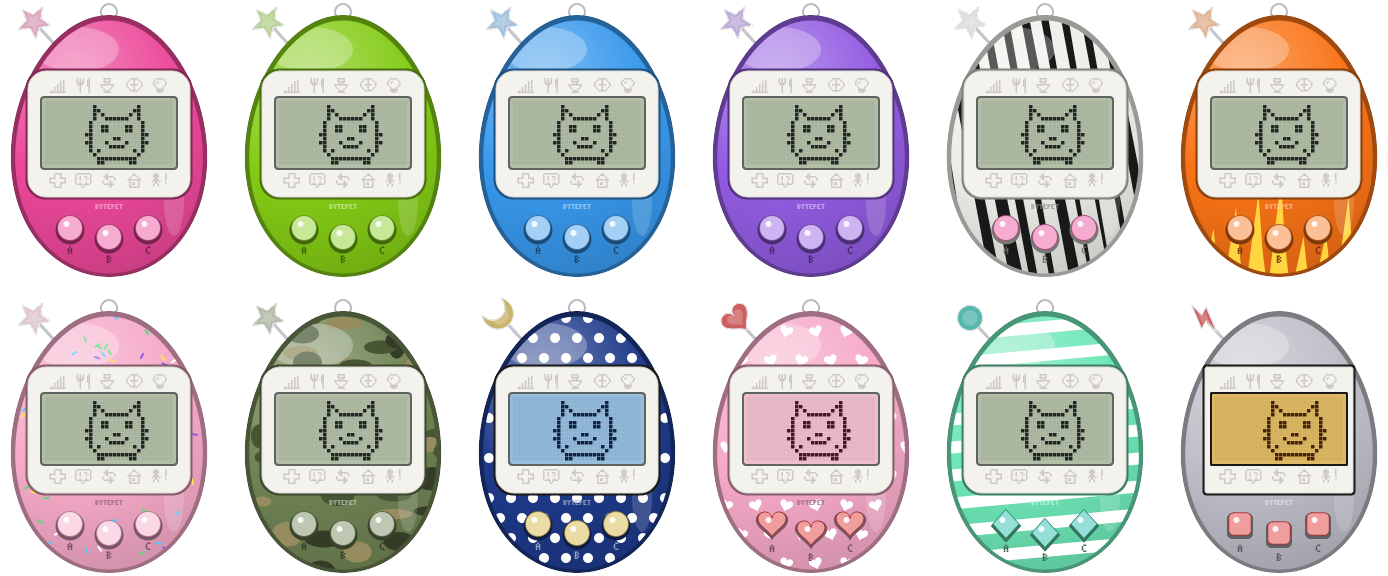
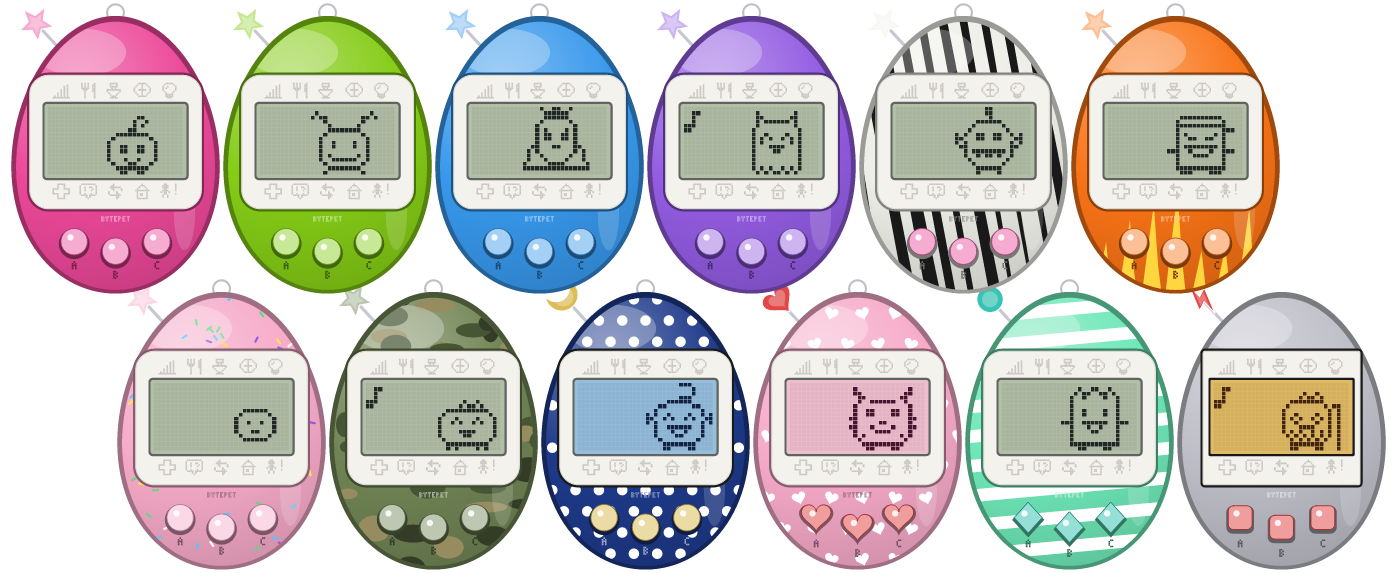
README: a different pet in each preset shell, in staggered rows
The "Make it yours" image showed the same pet in all twelve presets in a
plain grid. export_art now renders it: the presets in the caption's order,
each with its own pet from baby to senior (a few dancing), in two staggered
rows with the back row tucked slightly behind the front.

diff --git a/examples/export_art.rs b/examples/export_art.rs
@@ -140,6 +140,61 @@ fn hero(dir: &Path) {
     out.save_png(dir.join("hero.png")).unwrap();
 }
 
+/// The README's "Make it yours" image: all twelve preset shells in order, each with a
+/// different pet, in two staggered rows, the back one tucked slightly behind the front.
+fn shells(dir: &Path) {
+    use bytepet::look::PRESETS;
+    // BERRY LIME OCEAN GRAPE ZEBRA FLAME / DONUT CAMO COSMIC SWEET MINT RETRO
+    let pets = [
+        (Stage::Child, "child_a"),
+        (Stage::Teen, "teen_h"),
+        (Stage::Adult, "g_a"),
+        (Stage::Adult, "s_m"),
+        (Stage::Adult, "h_b"),
+        (Stage::Adult, "p_a"),
+        (Stage::Baby, "baby"),
+        (Stage::Child, "child_b"),
+        (Stage::Adult, "s_h"),
+        (Stage::Adult, "g_b"),
+        (Stage::Teen, "teen_p"),
+        (Stage::Senior, "senior"),
+    ];
+    let scale = 0.53;
+    let devices: Vec<tiny_skia::Pixmap> = PRESETS
+        .iter()
+        .zip(pets)
+        .enumerate()
+        .map(|(i, (p, (stage, character)))| {
+            let mut r = Rig::new(stage, character);
+            r.core.game.settings.look = p.look;
+            if i % 4 == 3 {
+                r.core.game.pet.praise_t = 100.0; // a few of them dancing
+            }
+            r.frames(45 + 7 * i); // so they don't all stand the same way
+            r.core.shade = r.core.lcd.buf.map(|v| v as f32);
+            Renderer::new().render(&r.core, scale, 1.0, r.wall)
+        })
+        .collect();
+    let (dw, dh) = (devices[0].width(), devices[0].height());
+    let per_row = devices.len() / 2;
+    // a little closer than side by side, the second row half a step along and a little up
+    let step_x = dw * 92 / 100;
+    let step_y = dh * 93 / 100;
+    let w = step_x * (per_row as u32 - 1) + step_x / 2 + dw;
+    let h = step_y + dh;
+    let mut out = tiny_skia::Pixmap::new(w, h).unwrap();
+    // the second row first, so its antennas tuck behind the first row instead of covering
+    // its buttons
+    for (i, d) in devices.iter().enumerate().rev() {
+        let (row, col) = (i / per_row, (i % per_row) as u32);
+        let x = col * step_x + row as u32 * step_x / 2;
+        let y = row as u32 * step_y;
+        let paint = tiny_skia::PixmapPaint::default();
+        out.draw_pixmap(x as i32, y as i32, d.as_ref(), &paint, tiny_skia::Transform::identity(), None);
+    }
+    out.save_png(dir.join("shells.png")).unwrap();
+}
+
 fn main() {
     let dir = PathBuf::from(std::env::args().nth(1).unwrap_or_else(|| "art".into()));
     std::fs::create_dir_all(&dir).unwrap();
@@ -179,6 +234,7 @@ fn main() {
     title.save_png(dir.join("title.png")).unwrap();
 
     hero(&dir);
+    shells(&dir);
 
     // devices: every shell, and the three common sizes
     let mut r = Rig::new(Stage::Adult, "g_b");
